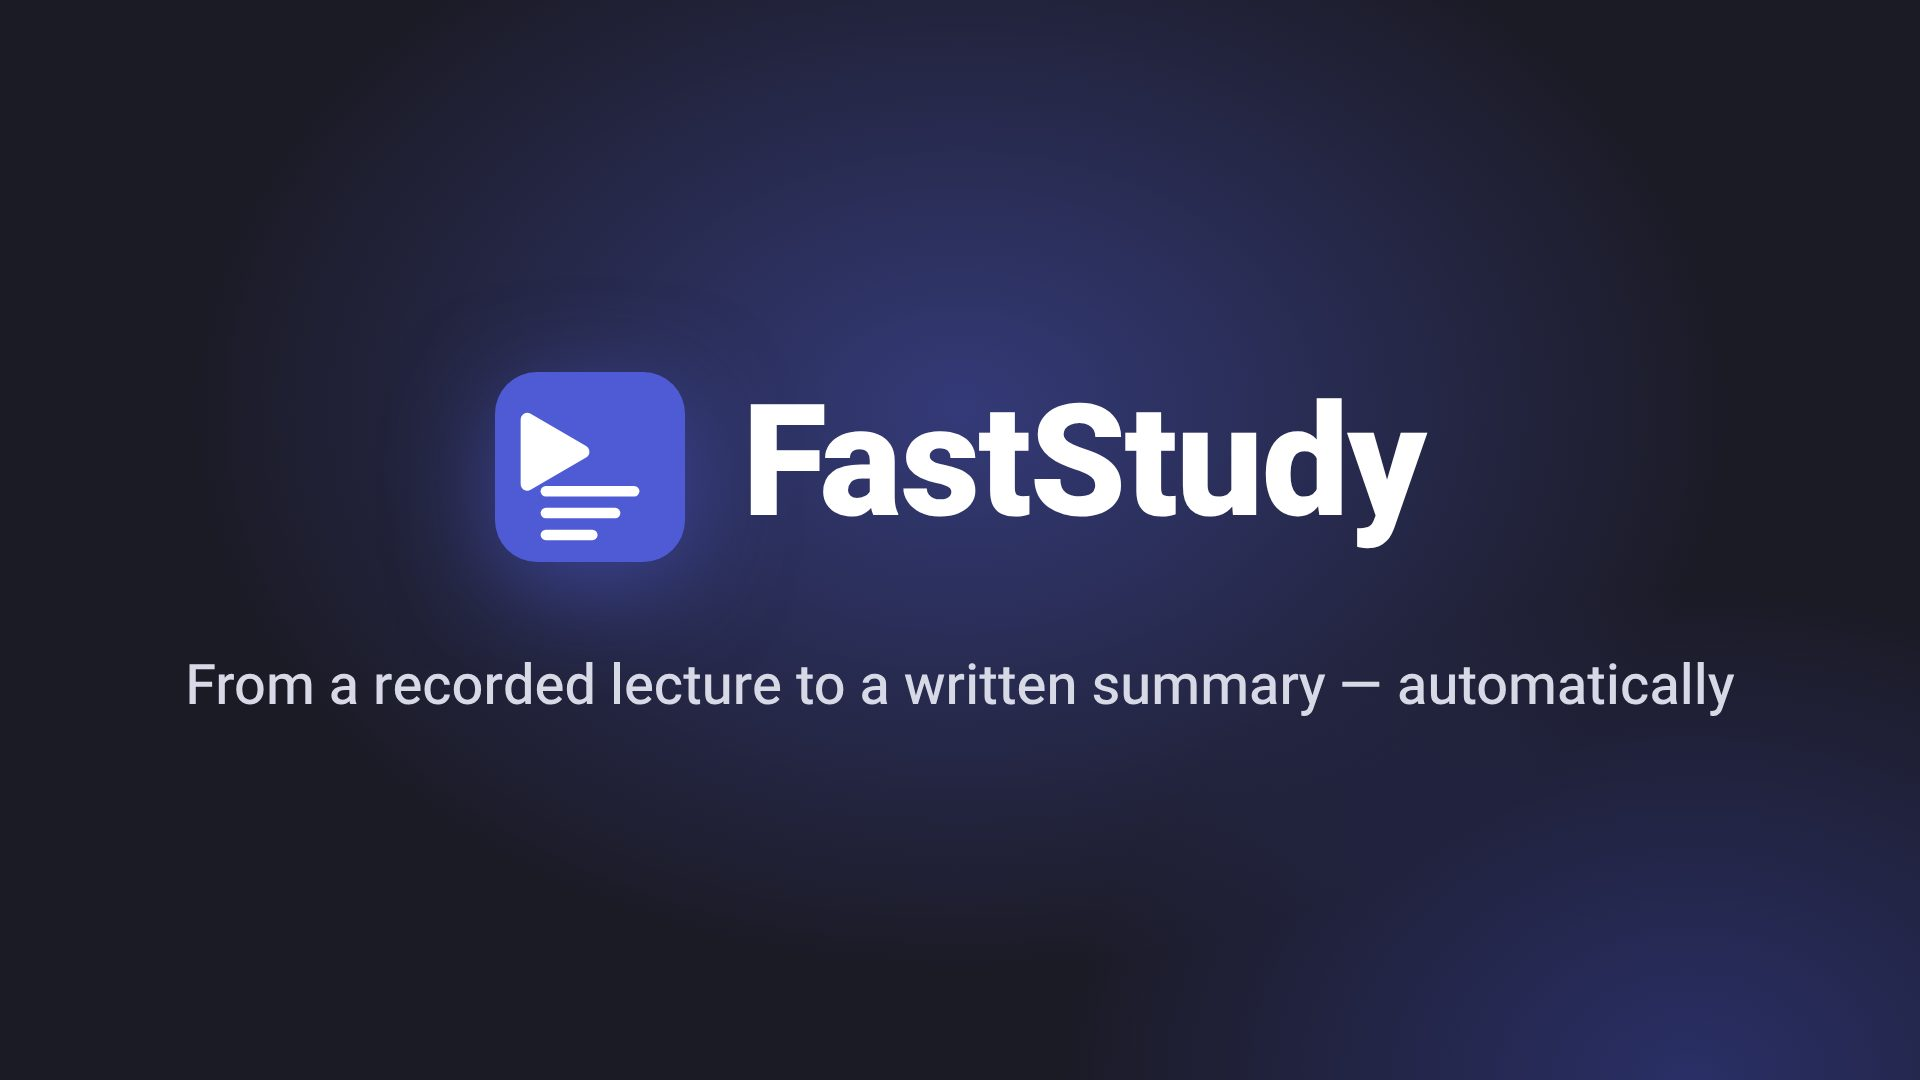
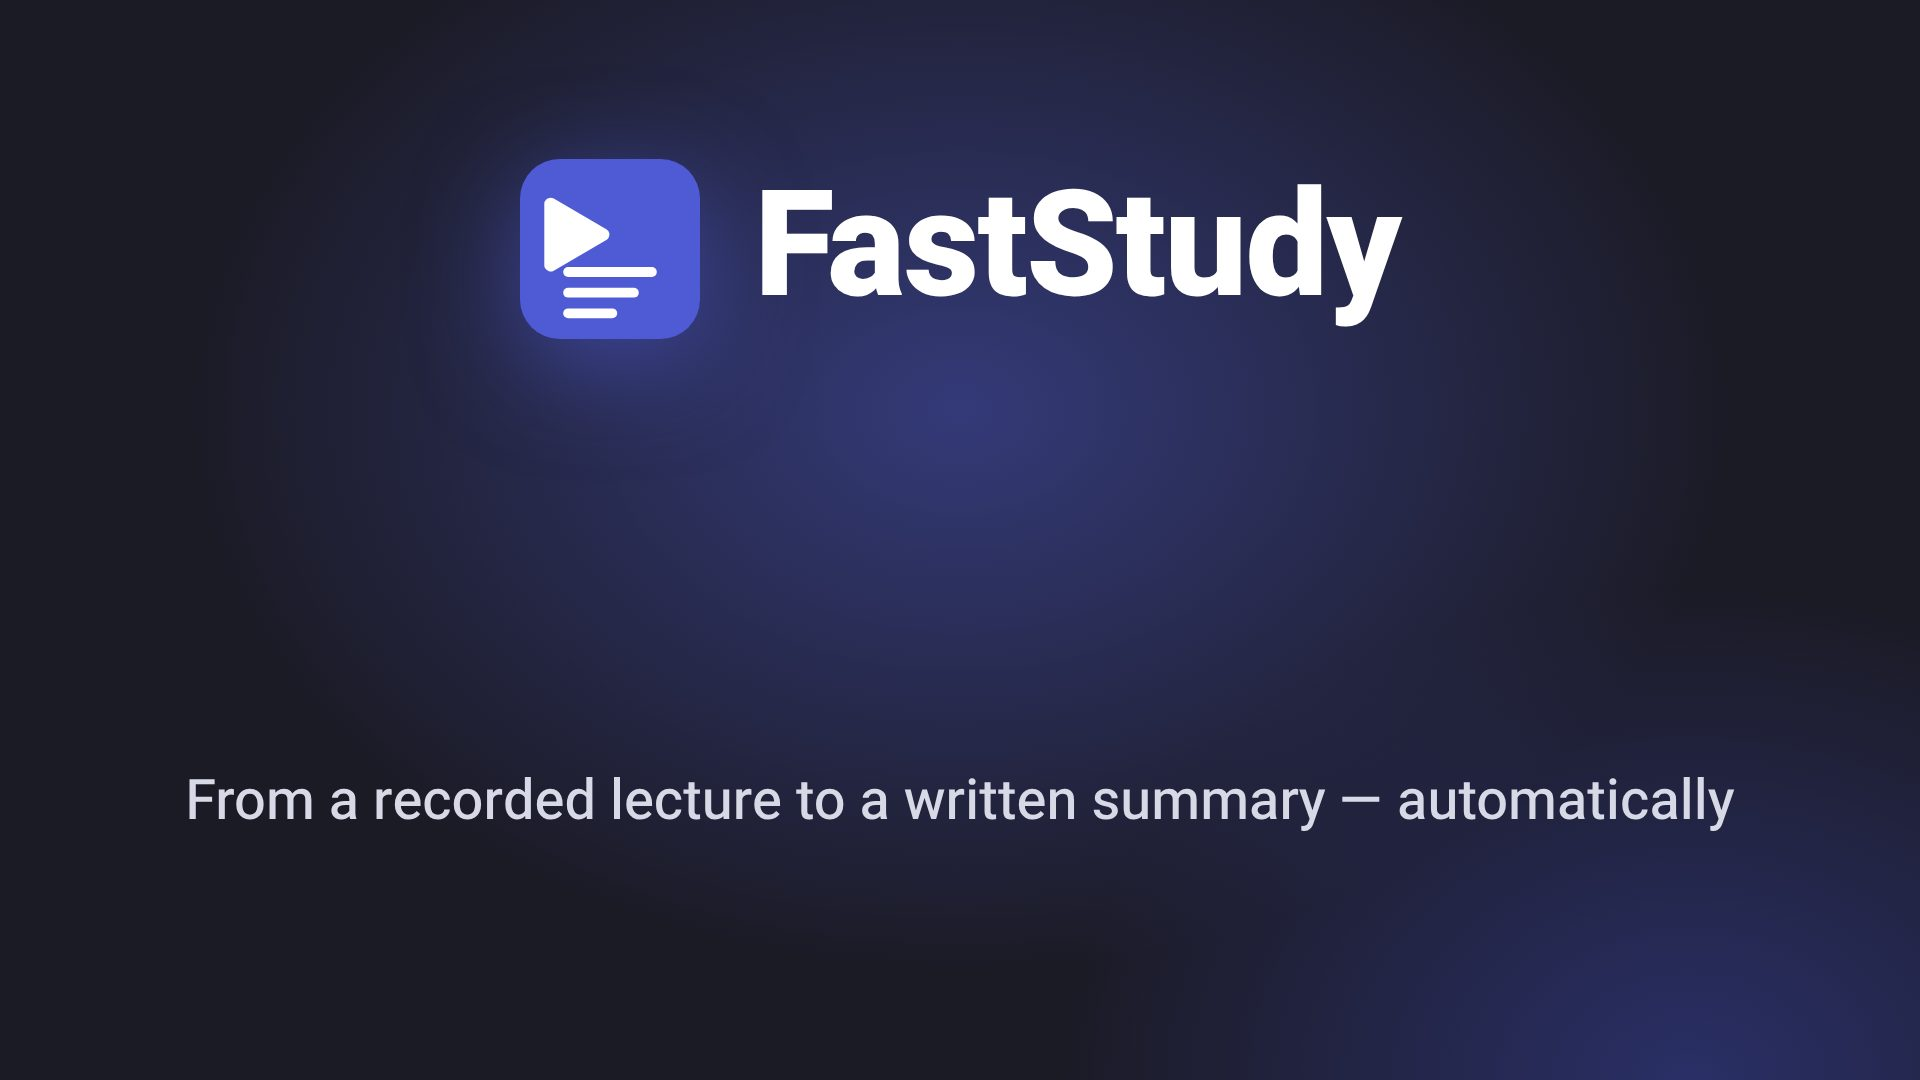
site: give the demo poster its own still so the play button sits on clear space

Changed region(s): [[0.2188, 0.1222, 0.75, 0.5806], [0.0938, 0.6111, 0.9062, 0.6722], [0.0938, 0.7028, 0.9062, 0.7639]]

diff --git a/site/demo/src/Demo.jsx b/site/demo/src/Demo.jsx
@@ -11,7 +11,7 @@ import {
 } from 'remotion';
 import enShots from '../public/footage/en/manifest.json';
 import heShots from '../public/footage/he/manifest.json';
-import { EndCard, TitleCard } from './Cards.jsx';
+import { EndCard, PosterCard, TitleCard } from './Cards.jsx';
 import { Backdrop, Caption, ChapterRail } from './Chrome.jsx';
 import { Download, Drive, Pdf, Pipeline } from './Scenes.jsx';
 import en from './strings/en.json';
@@ -40,11 +40,8 @@ function Scene({ name, children }) {
   );
 }
 
-export function Demo({ lang }) {
-  const frame = useCurrentFrame();
-  const { strings, footage } = LANGS[lang];
-  const { shots, sheet } = footage;
-  // No frame renders before Heebo has loaded in every weight the video sets, Hebrew included.
+// No frame renders before Heebo has loaded in every weight the video sets, Hebrew included.
+function useHeebo() {
   const [handle] = useState(() => delayRender('Heebo'));
   useEffect(() => {
     Promise.all(
@@ -53,6 +50,19 @@ export function Demo({ lang }) {
       ),
     ).then(() => continueRender(handle));
   }, [handle]);
+}
+
+// The still the page shows before the video plays.
+export function Poster({ lang }) {
+  useHeebo();
+  return <PosterCard strings={LANGS[lang].strings} />;
+}
+
+export function Demo({ lang }) {
+  const frame = useCurrentFrame();
+  const { strings, footage } = LANGS[lang];
+  const { shots, sheet } = footage;
+  useHeebo();
 
   const flows = { from: SCENES.download.from, until: SCENES.end.from + FADE };
   return (

diff --git a/site/demo/src/Cards.jsx b/site/demo/src/Cards.jsx
@@ -3,7 +3,7 @@ import icon from '../../img/icon.svg';
 import { progress } from './motion.mjs';
 import { COLOR, FONT, FPS } from './theme.mjs';
 
-function Dark({ children, dir }) {
+function Dark({ children, dir, style }) {
   return (
     <AbsoluteFill
       style={{
@@ -13,12 +13,16 @@ function Dark({ children, dir }) {
         alignItems: 'center',
         justifyContent: 'center',
         flexDirection: 'column',
+        ...style,
       }}
     >
       {children}
     </AbsoluteFill>
   );
 }
+
+// A frame by which every entrance on a card has finished.
+const SETTLED = 300;
 
 const rise = (frame, from) => {
   const p = progress(frame, from, from + 16);
@@ -66,6 +70,18 @@ export function TitleCard({ strings, frame }) {
           ...rise(frame, 20),
         }}
       >
+        {strings.tagline}
+      </div>
+    </Dark>
+  );
+}
+
+// The page's poster: the title card's parts settled, set above and below a centre left clear for the play button.
+export function PosterCard({ strings }) {
+  return (
+    <Dark dir={strings.dir} style={{ justifyContent: 'space-between', padding: '140px 0 236px' }}>
+      <Brand strings={strings} frame={SETTLED} size={180} />
+      <div style={{ fontSize: 56, lineHeight: '84px', fontWeight: 500, color: COLOR.darkFg }}>
         {strings.tagline}
       </div>
     </Dark>

diff --git a/site/demo/src/Root.jsx b/site/demo/src/Root.jsx
@@ -2,21 +2,30 @@ import '@fontsource/heebo/400.css';
 import '@fontsource/heebo/500.css';
 import '@fontsource/heebo/700.css';
 import '@fontsource/heebo/800.css';
-import { Composition } from 'remotion';
-import { Demo } from './Demo.jsx';
+import { Composition, Still } from 'remotion';
+import { Demo, Poster } from './Demo.jsx';
 import { FPS, VIDEO } from './theme.mjs';
 import { TOTAL } from './timeline.mjs';
 
 export function Root() {
   return (
-    <Composition
-      id="Demo"
-      component={Demo}
-      durationInFrames={TOTAL}
-      fps={FPS}
-      width={VIDEO.width}
-      height={VIDEO.height}
-      defaultProps={{ lang: 'he' }}
-    />
+    <>
+      <Composition
+        id="Demo"
+        component={Demo}
+        durationInFrames={TOTAL}
+        fps={FPS}
+        width={VIDEO.width}
+        height={VIDEO.height}
+        defaultProps={{ lang: 'he' }}
+      />
+      <Still
+        id="Poster"
+        component={Poster}
+        width={VIDEO.width}
+        height={VIDEO.height}
+        defaultProps={{ lang: 'he' }}
+      />
+    </>
   );
 }

diff --git a/site/style.css b/site/style.css
@@ -338,16 +338,11 @@ p {
   object-fit: cover;
 }
 
-/* Dimmed, so the play button reads as the control over the title card. */
-.demo-poster {
-  opacity: 0.6;
-}
-
 .demo-play-icon {
   position: absolute;
   inset: 0;
   margin: auto;
-  inline-size: clamp(64px, 9vw, 96px);
+  inline-size: clamp(48px, 9vw, 96px);
   aspect-ratio: 1;
   display: grid;
   place-items: center;

diff --git a/site/CLAUDE.md b/site/CLAUDE.md
@@ -82,7 +82,9 @@ The SmartScreen steps come from a real Windows install and cannot be captured he
 A 60-second walk through one lecture in Hebrew and English: a title card, four flows — downloading a
 recording from the course's Moodle, the pipeline's steps completing, the summary PDF, the Drive
 control on the finished lecture — and an end card with the page's own call to action. Each MP4 is
-1920×1080 at 30 fps, H.264 yuv420p + AAC, moov atom first; each poster is the title card.
+1920×1080 at 30 fps, H.264 yuv420p + AAC, moov atom first. Each poster is the composition's own
+`Poster` still, not a frame of the video: the title card's logo, wordmark and tagline with the
+wordmark above and the tagline below a centre left clear for the page's play button.
 
 `demo/` is the one place in `site/` with a `package.json`: Remotion `4.0.543` (pinned), React and
 `@fontsource/heebo`. The picture is stills of the app animated in code — camera, cursor, crossfades —
@@ -93,6 +95,7 @@ the language as a prop and picks that language's strings and footage.
 ```bash
 node site/demo/capture.mjs --harness DIR   # rewrites demo/public/footage/ on a live app-harness stack
 cd site/demo && npm ci && npm run render   # rewrites the four files in video/
+cd site/demo && npm run posters            # rewrites the two posters alone, the MP4s untouched
 ```
 
 `capture.mjs` seeds the showcase dataset and drives the journey lecture with two pages on one stack,
